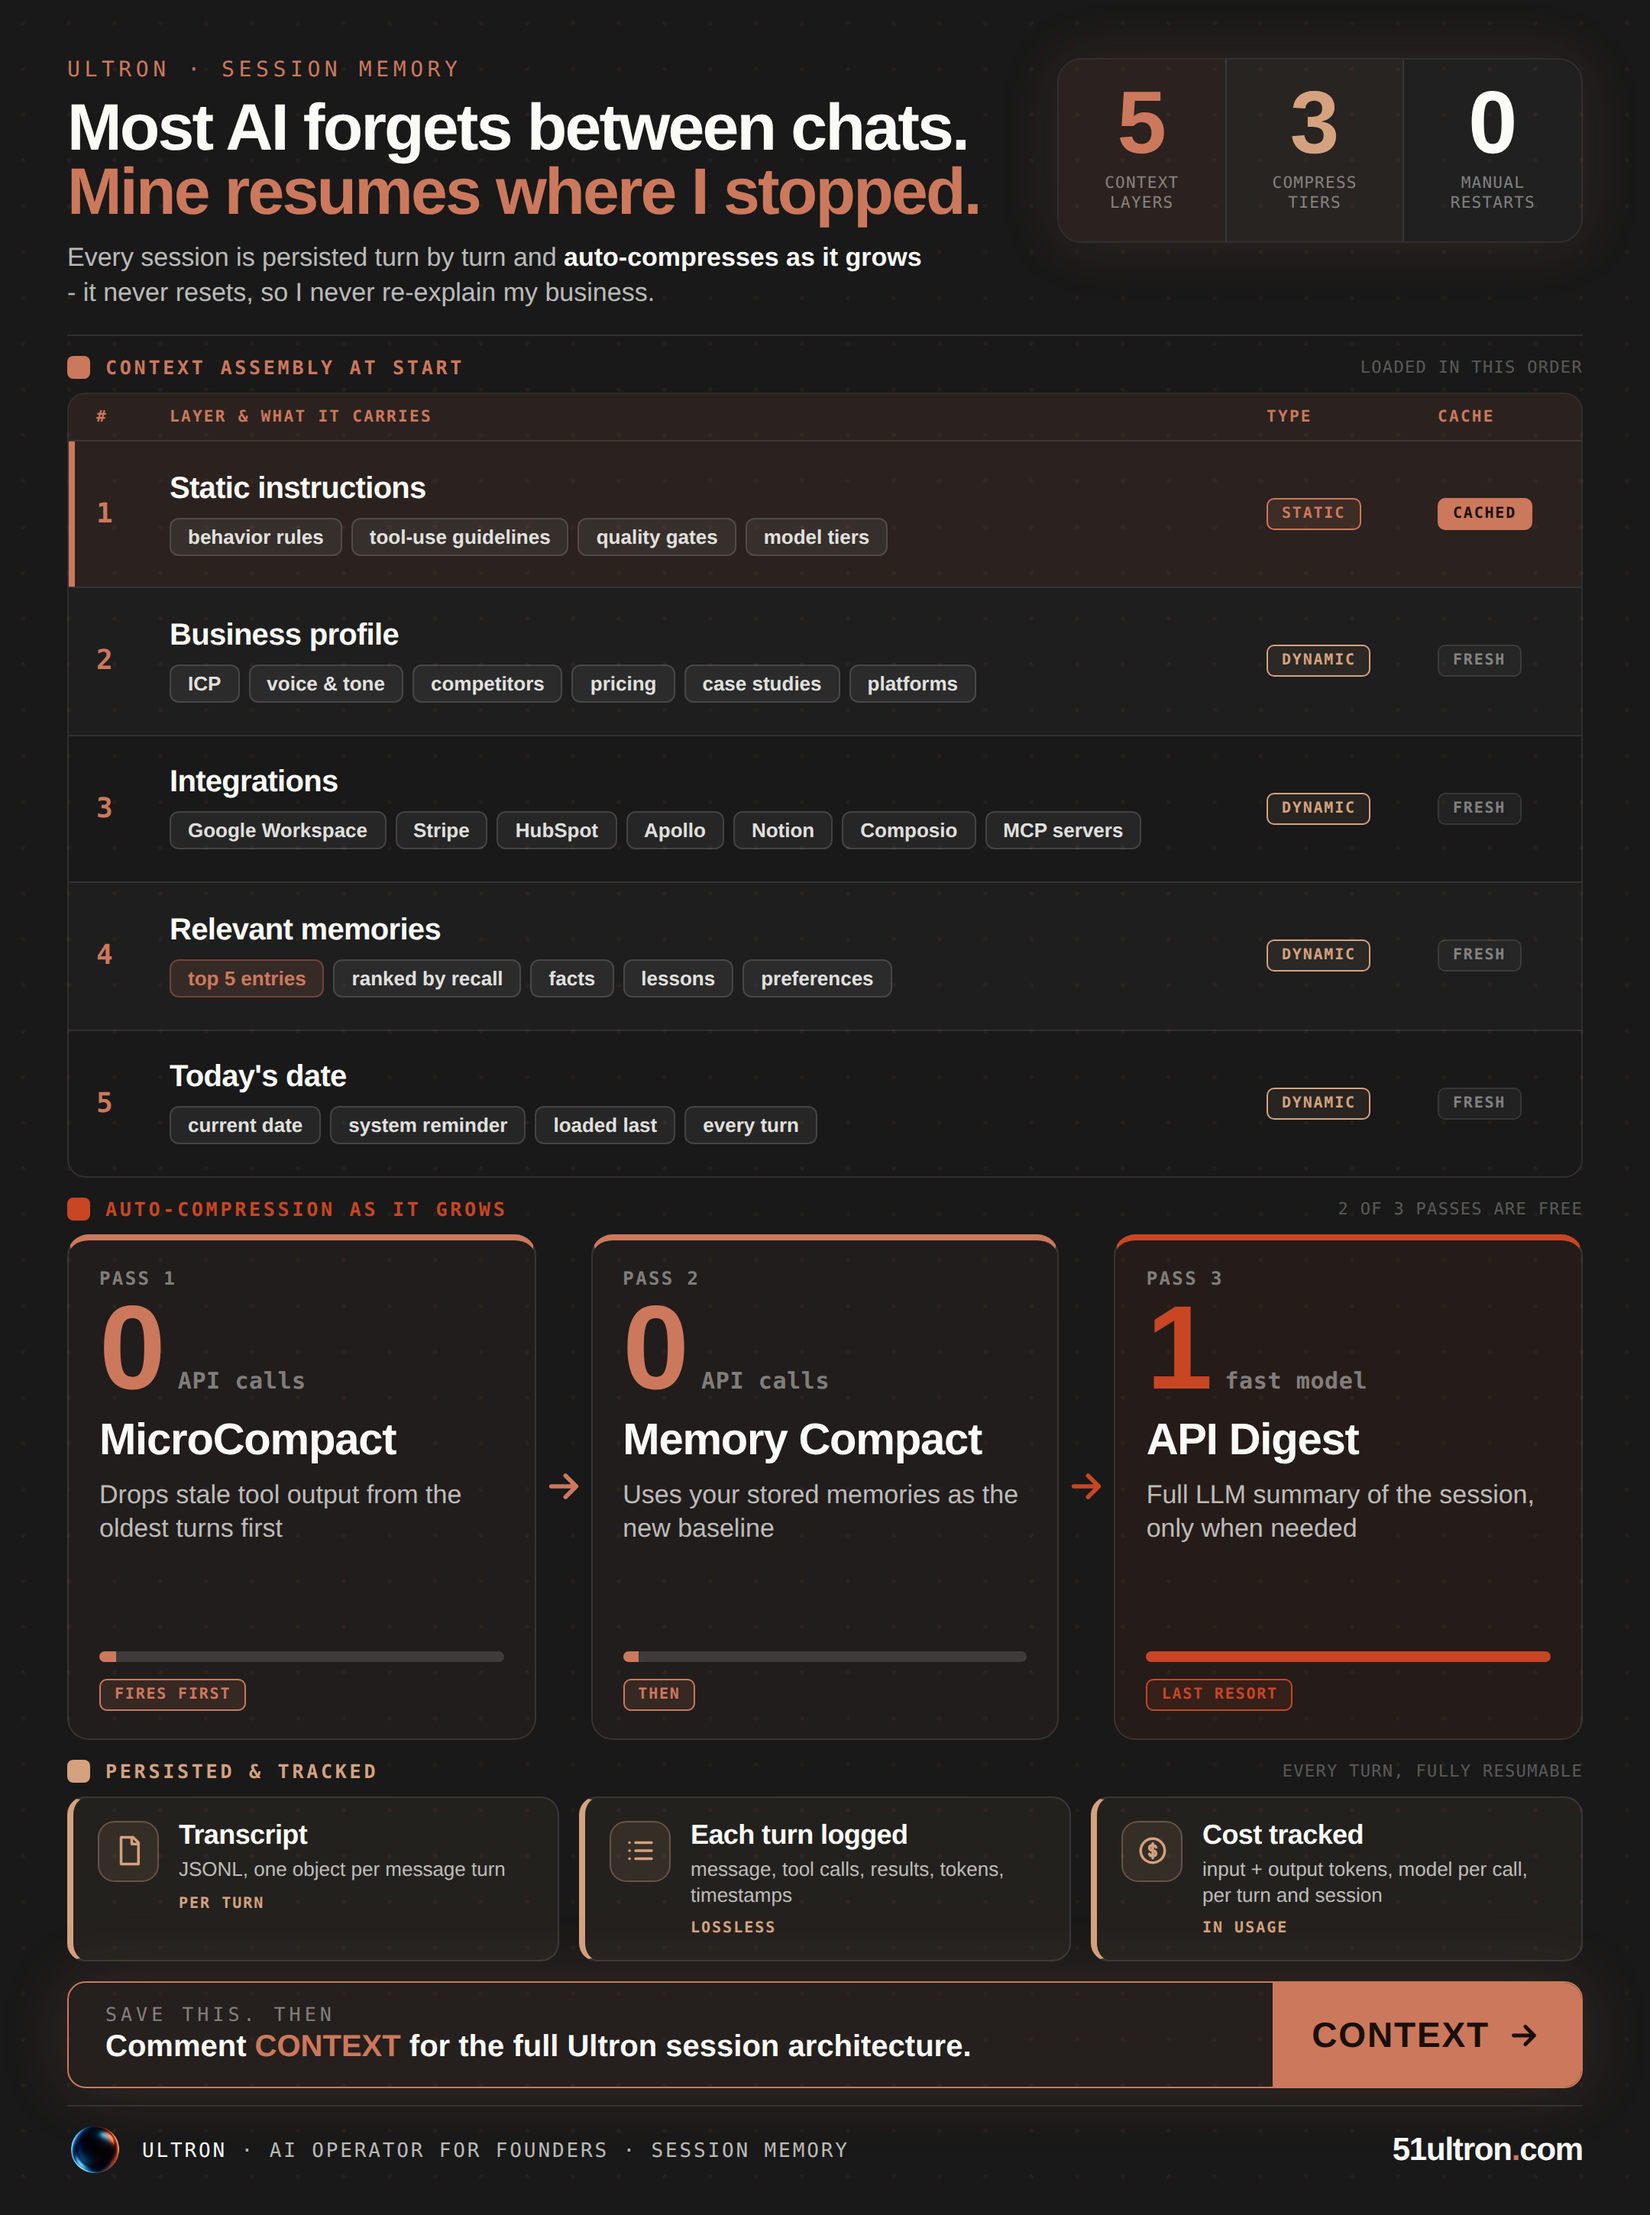
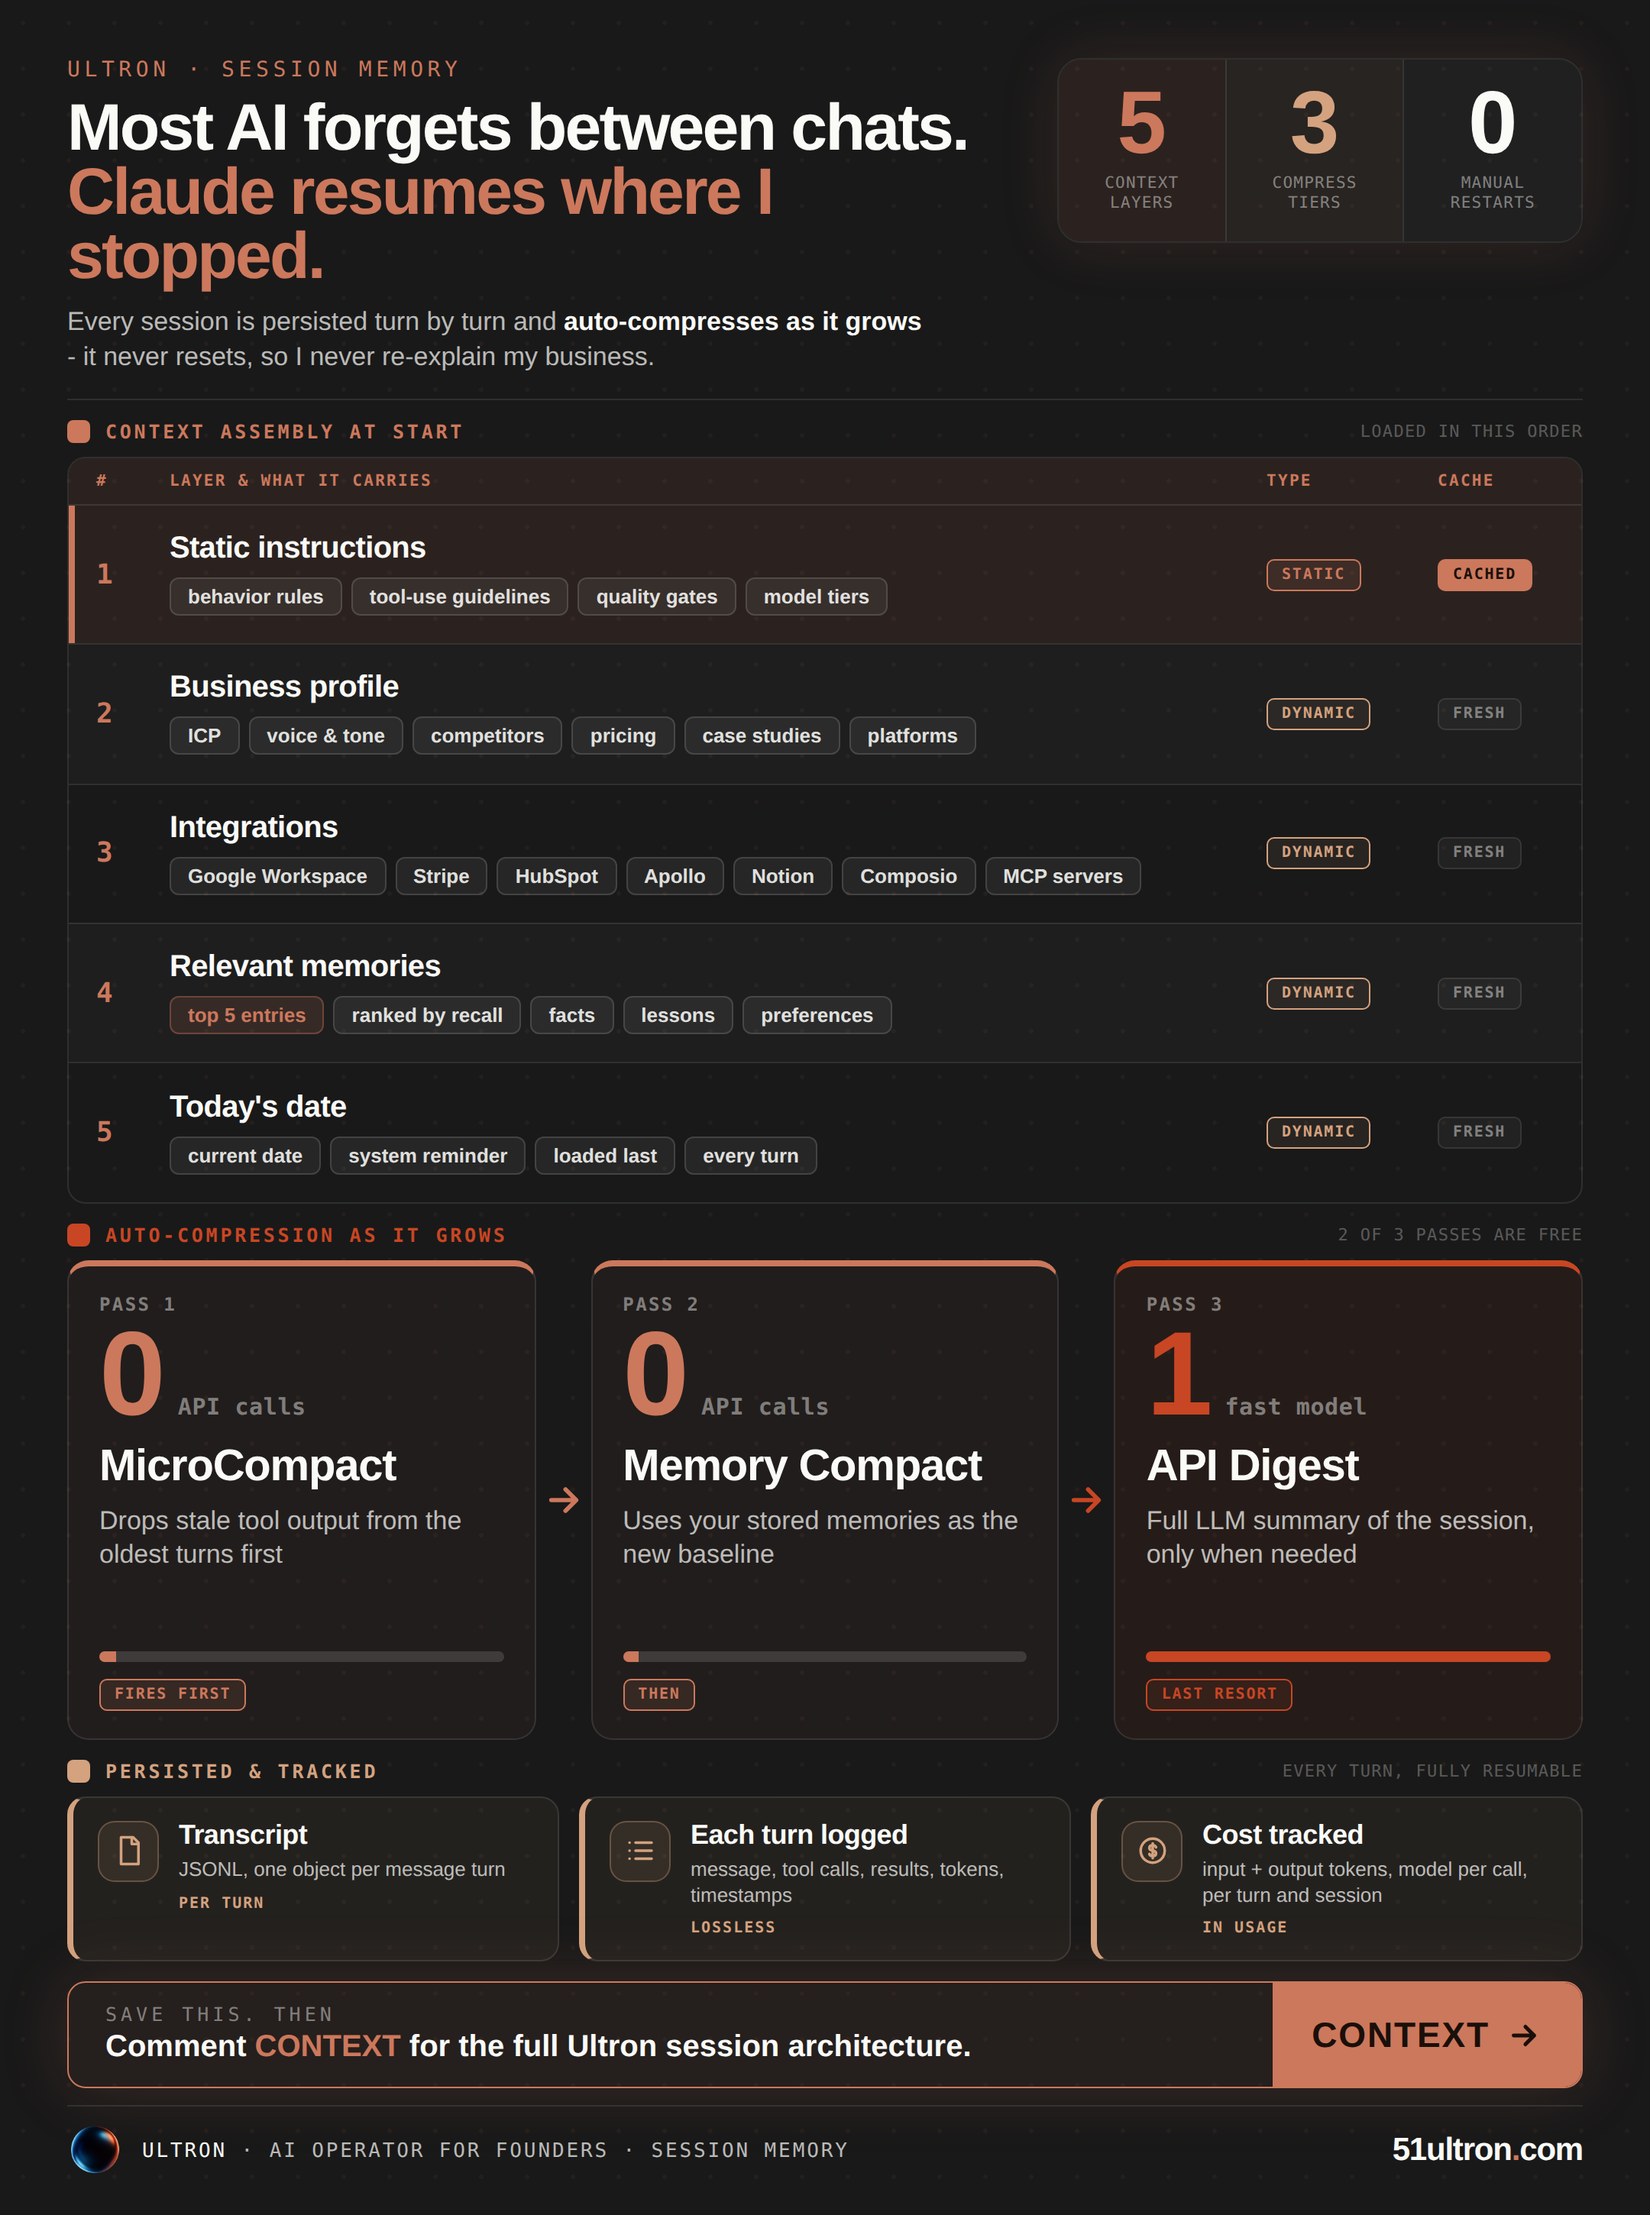
content: docs-10 LinkedIn - put Claude in the hook (the draw into Ultron)
Hook now reads 'Most AI forgets between chats. Claude resumes where I stopped.'
- Claude is the recognizable hook (Trojan horse), Ultron is the product built on
top of it. Keeps AI + Claude both in the first lines.

diff --git a/content/docs-10-sessions-linkedin.html b/content/docs-10-sessions-linkedin.html
@@ -78,7 +78,7 @@ body{background:#0d0d0d;display:flex;justify-content:center;padding:24px 0;font-
 .ftx{font-family:'DM Mono',monospace;font-size:13px;font-weight:400;letter-spacing:.11em;text-transform:uppercase;color:var(--ink70);}.ftx b{color:var(--ivory);font-weight:500;}
 .furl{font-weight:900;font-size:21px;letter-spacing:-.6px;color:var(--ivory);}.furl em{color:var(--book);font-style:normal;}
 </style></head><body><div class="frame" id="artifact"><div class="atm"></div>
-<div class="hero"><div><div class="eye">Ultron &middot; Session Memory</div><div class="hook">Most AI forgets between chats.<br><em>Mine resumes where I stopped.</em></div><div class="sub">Every session is persisted turn by turn and <b>auto-compresses as it grows</b> - it never resets, so I never re-explain my business.</div></div>
+<div class="hero"><div><div class="eye">Ultron &middot; Session Memory</div><div class="hook">Most AI forgets between chats.<br><em>Claude resumes where I stopped.</em></div><div class="sub">Every session is persisted turn by turn and <b>auto-compresses as it grows</b> - it never resets, so I never re-explain my business.</div></div>
 <div class="statile"><div class="st a"><div class="sn">5</div><div class="sl">context<br>layers</div></div><div class="st b"><div class="sn">3</div><div class="sl">compress<br>tiers</div></div><div class="st c"><div class="sn">0</div><div class="sl">manual<br>restarts</div></div></div></div>
 <div class="sec s1"><span class="sq"></span><span class="sl">Context assembly at start</span><span class="sx">loaded in this order</span></div>
 <div class="tbl t1">
